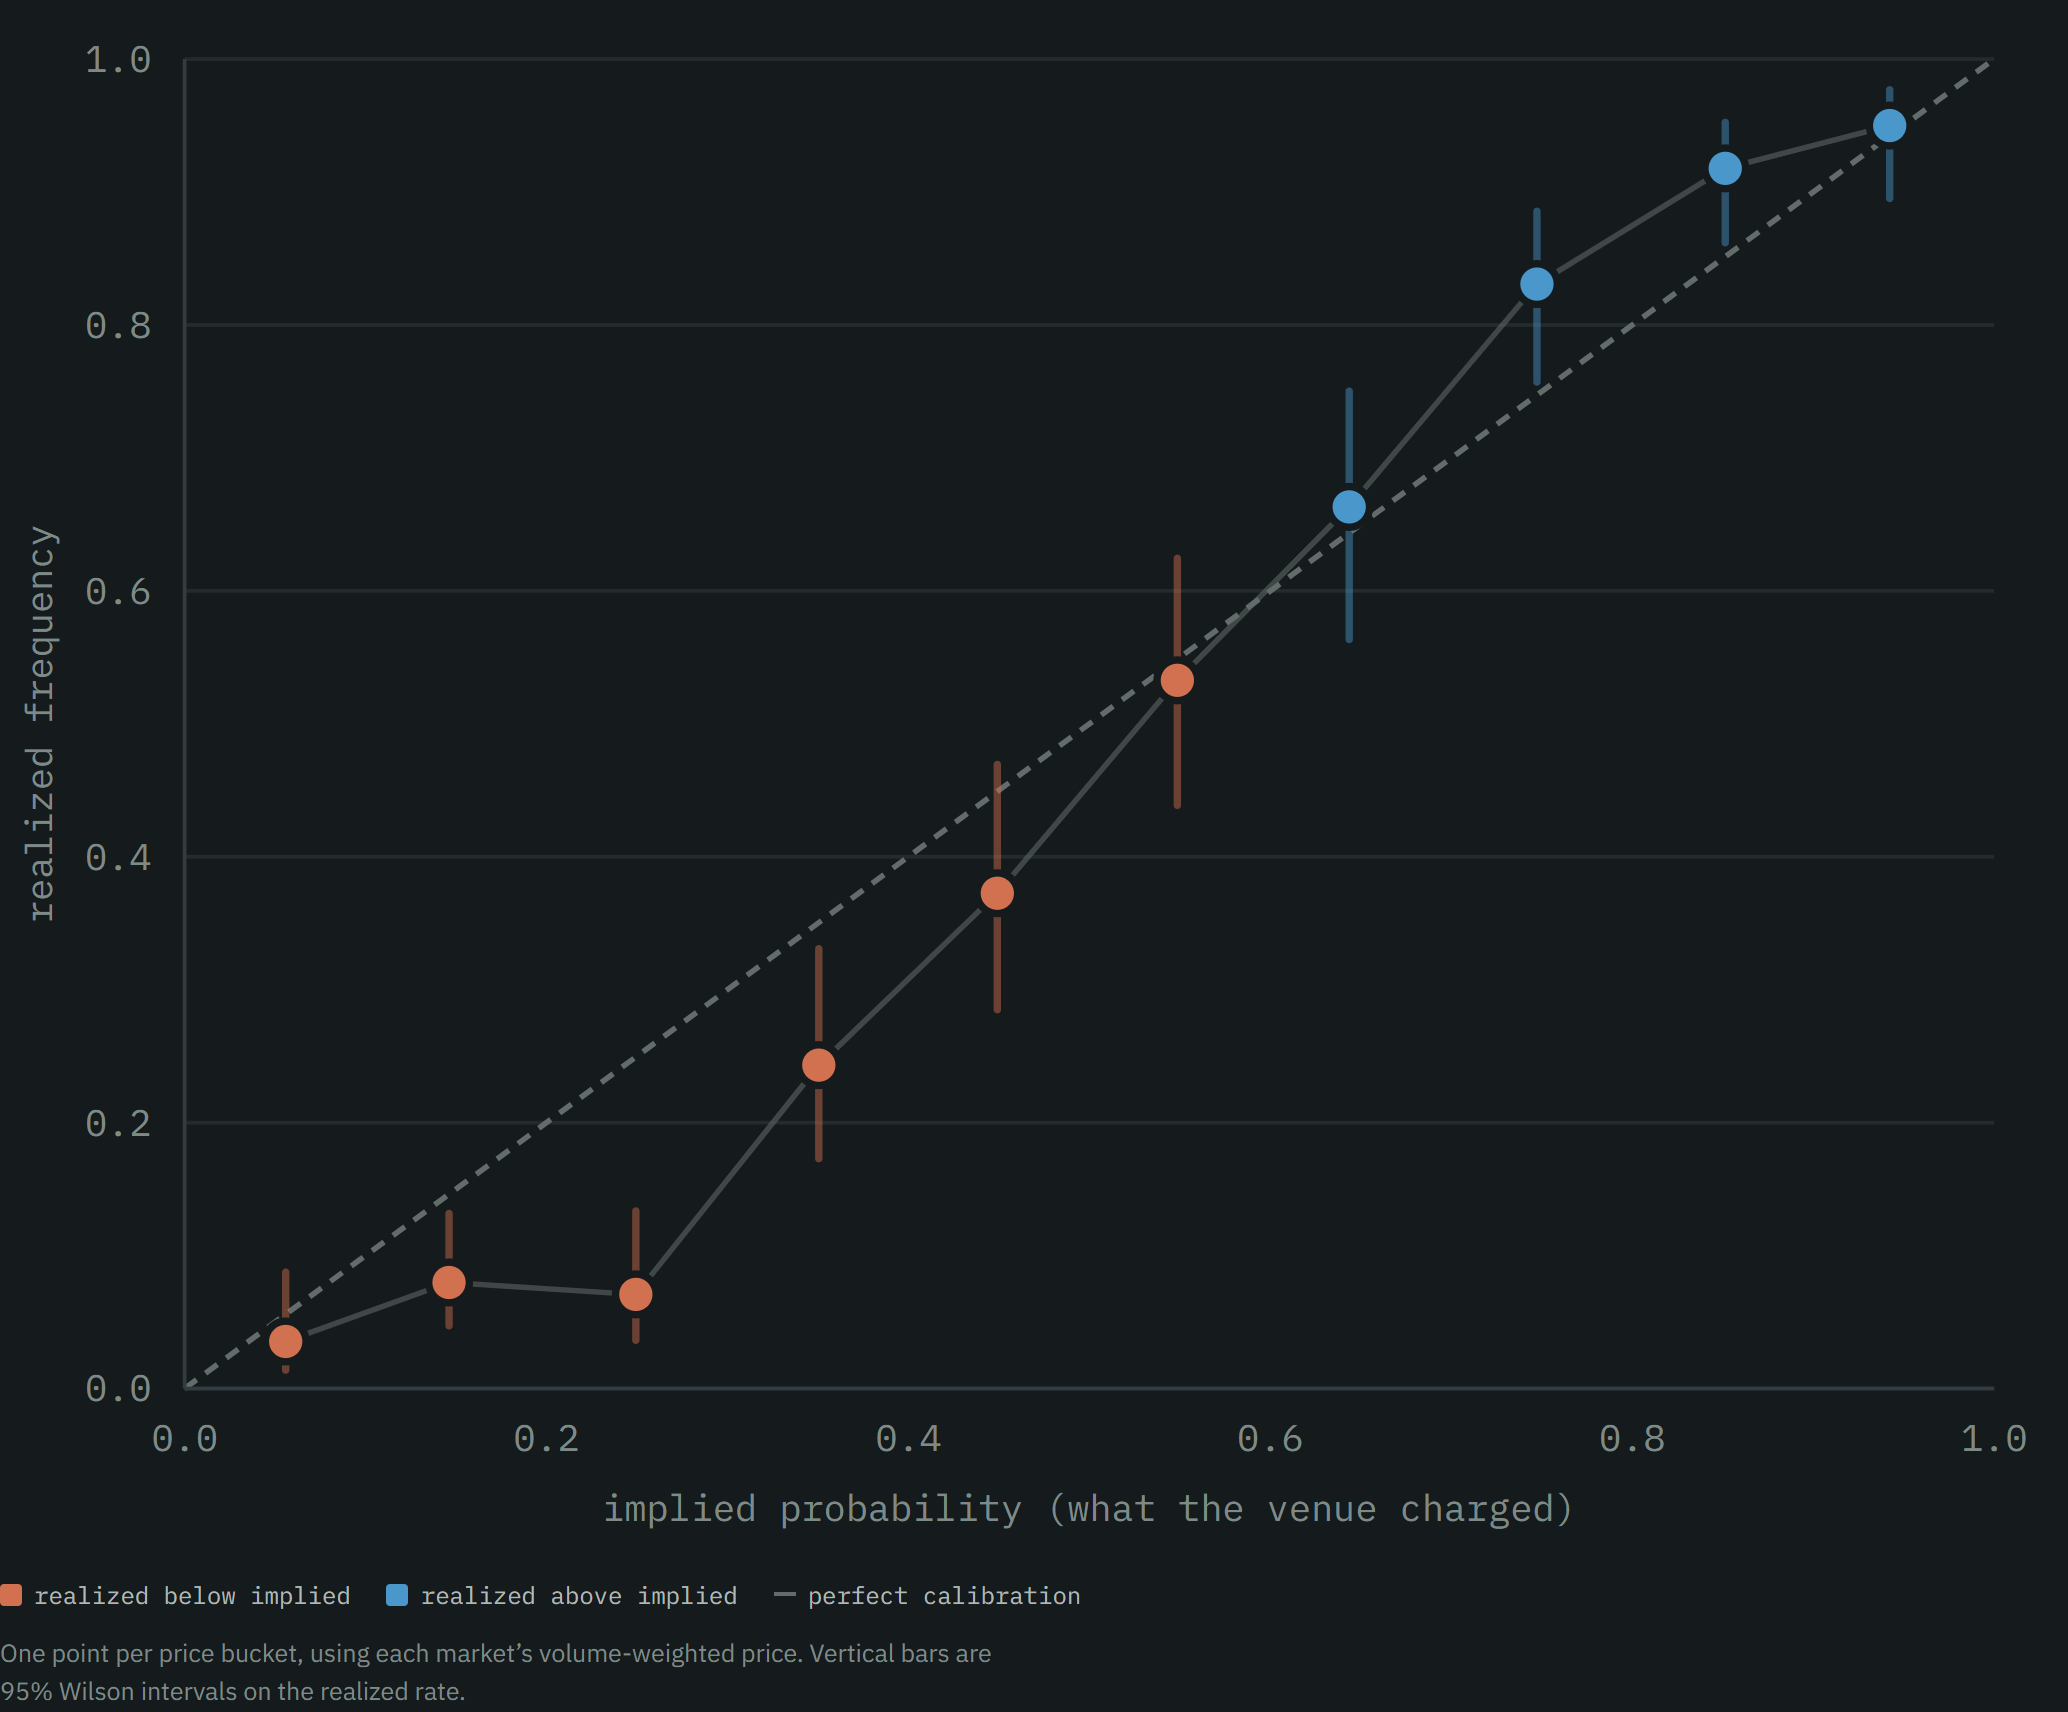
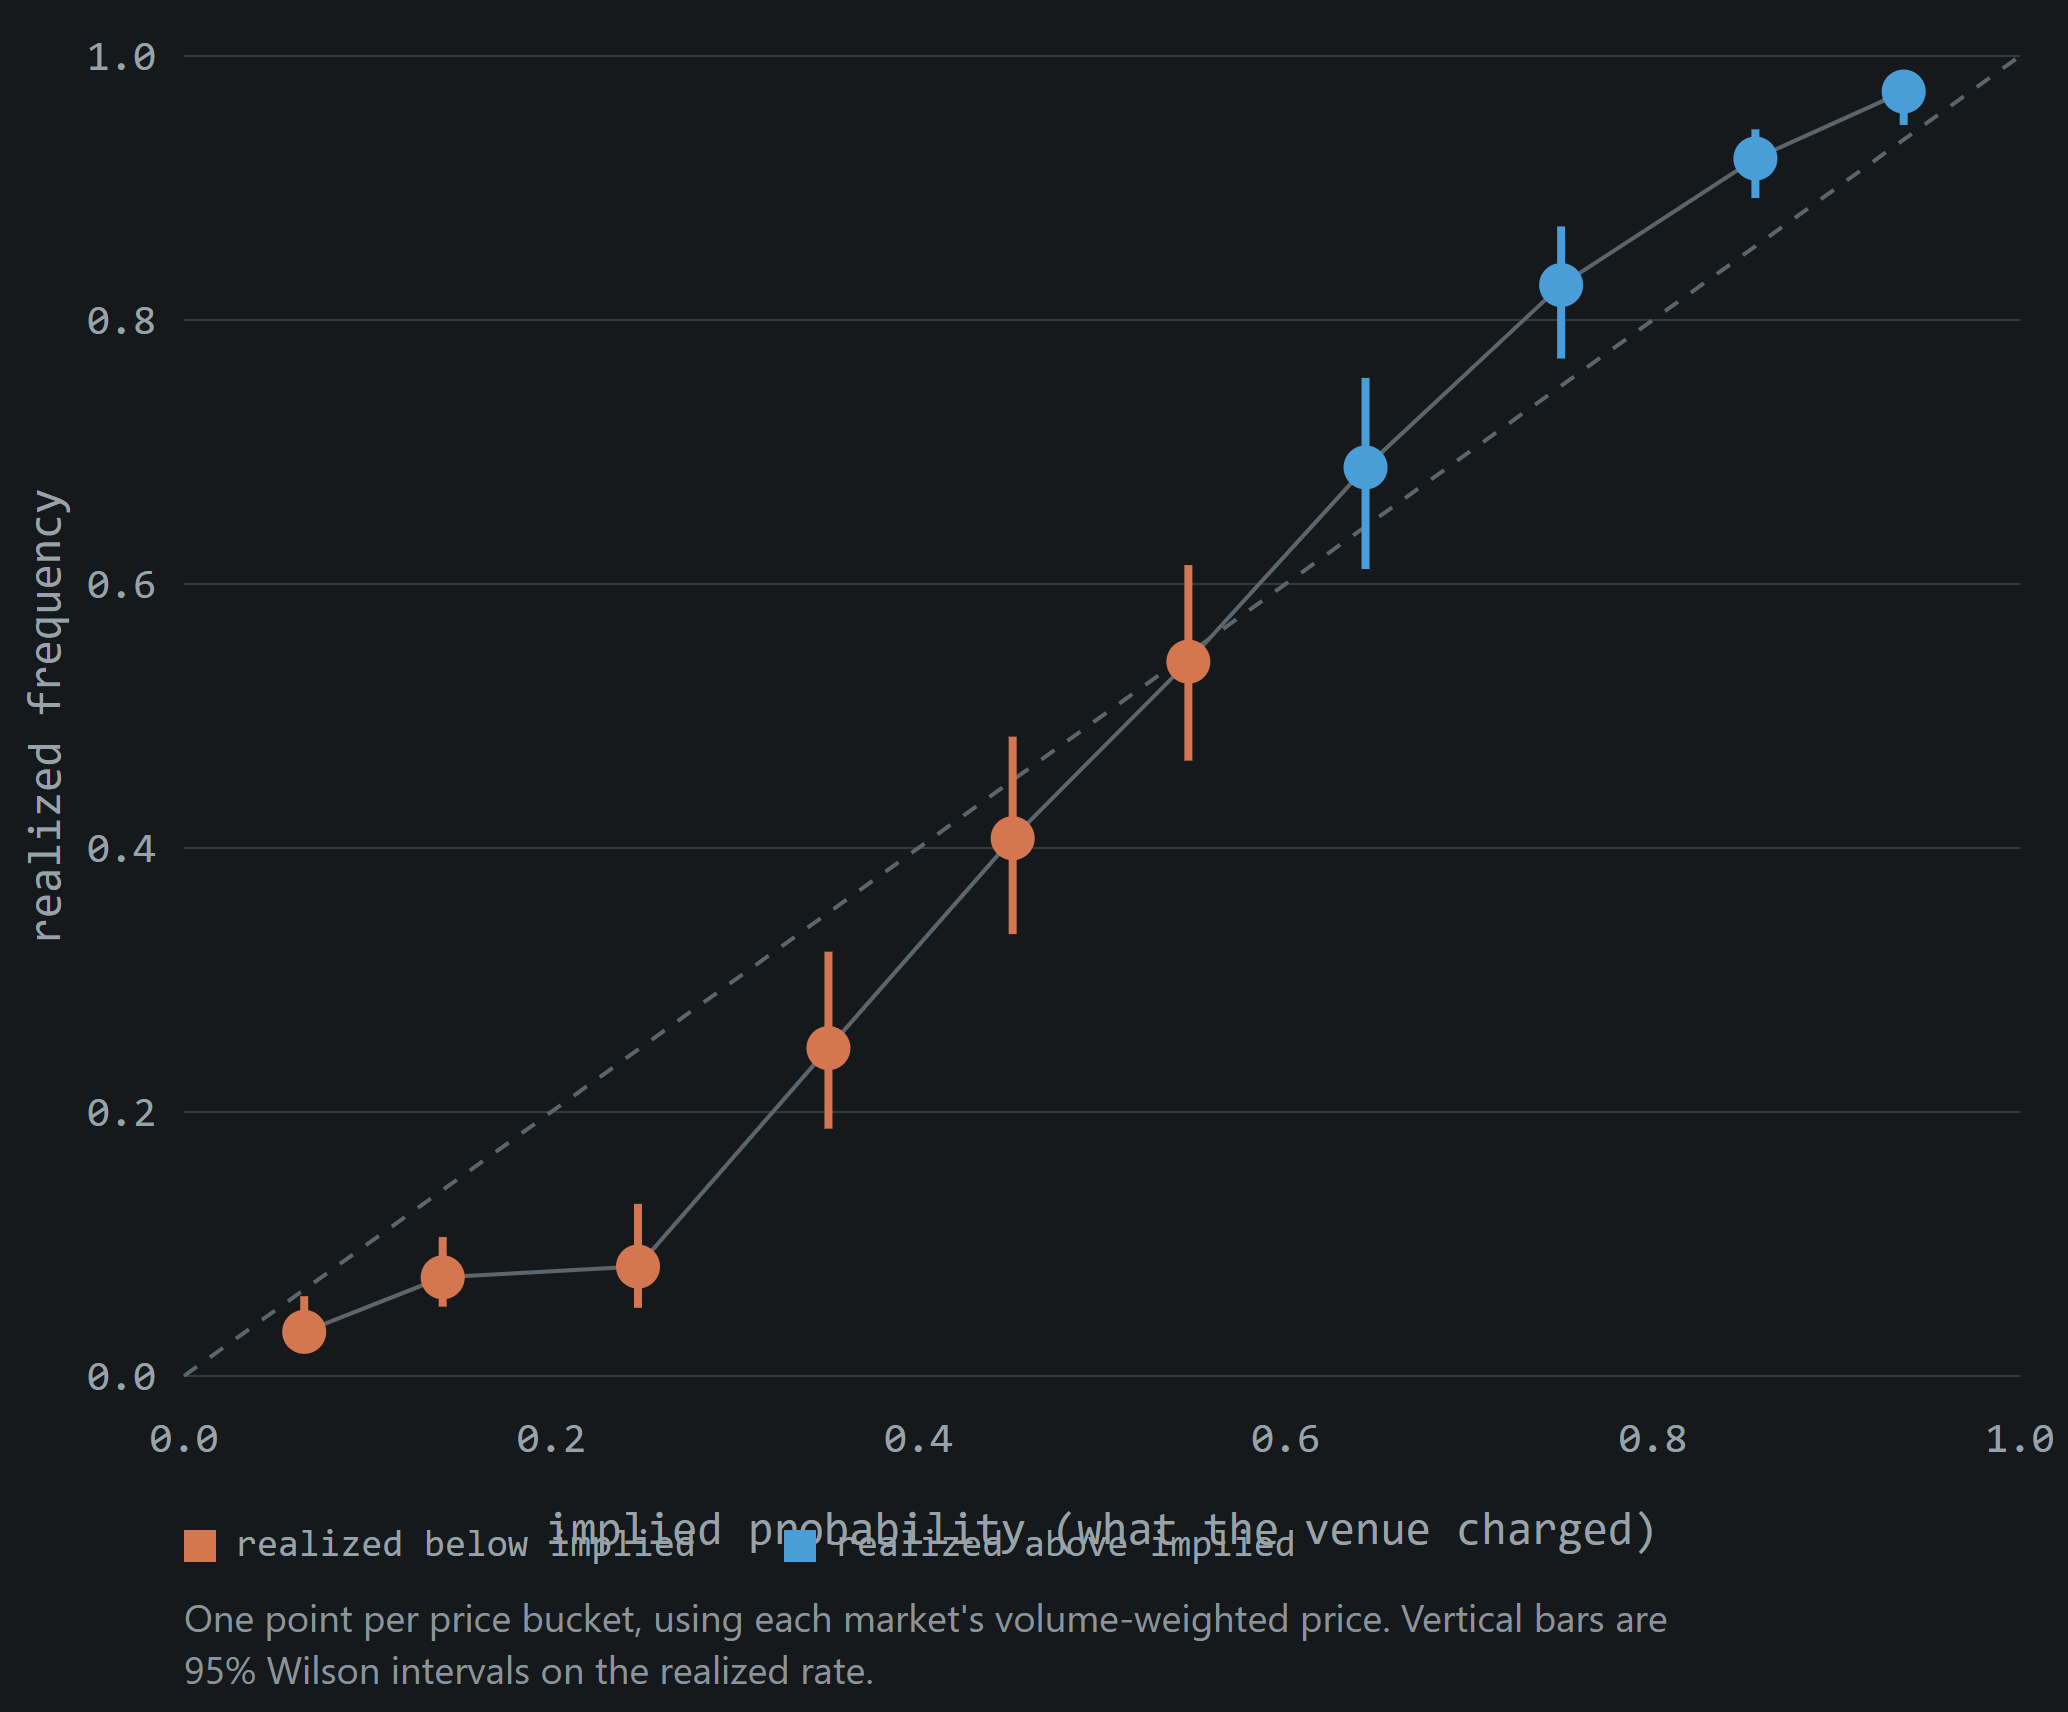
Make the three figures a command instead of a memory
The calibration curve, forest plot and weekly-error bars were produced by
hand outside the repo. Nothing rebuilt them, so when the store grew they
kept describing a snapshot that no longer existed while the tables beside
them moved. A figure nobody can regenerate is a claim nobody can check.

npm run charts reads the current store through the same analytics the API
and the agent use, writes standalone SVG, and rasterises it through headless
Chrome, because GitHub's markdown pipeline is unreliable with SVG. Both
artefacts are committed: the SVG is the source, the PNG is what the README
points at.

Regenerated against the refreshed store, which changes what the forest plot
shows: the clustered estimate used to clear zero and no longer does, so only
the naive per-fill estimator survives. Adds playwright-core as a dev
dependency, driving the installed Chrome rather than downloading a browser.

diff --git a/src/cli/charts.ts b/src/cli/charts.ts
@@ -1,0 +1,224 @@
+/**
+ * `npm run charts` - regenerate the three figures the README embeds.
+ *
+ * These used to be produced by hand outside the repo, which meant they drifted
+ * silently: the store grew, every number in the tables moved, and the pictures
+ * beside them still described an older snapshot. A figure that cannot be
+ * rebuilt from the current store is a claim nobody can check, so this makes
+ * them a command like every other number here.
+ *
+ * Each chart is emitted as standalone SVG and then rasterised through headless
+ * Chrome, because GitHub's markdown pipeline is unreliable with SVG. Both
+ * artefacts are written: the SVG is the source, the PNG is what the README
+ * points at.
+ */
+
+import { writeFileSync } from "node:fs";
+import { chromium } from "playwright-core";
+import { openDb } from "../db/schema.js";
+import { scoredFills, scoredMarkets } from "../analytics/queries.js";
+import { calibrationReport, type CalibrationBin } from "../analytics/calibration.js";
+import { edgeReport } from "../analytics/edge.js";
+
+/* The site's own data poles, held against the dark ground the figures use.
+   Orange is "realized below implied", blue is "realized above". Grey is
+   reserved for the estimate that does not clear zero - it must never read as
+   one of the two poles, because it is not a direction. */
+const C = {
+  bg: "#16191c",
+  grid: "#333b41",
+  axis: "#98a2a8",
+  dim: "#8a949a",
+  low: "#d4764f",
+  high: "#4a9ed8",
+  none: "#7f8d88",
+  rule: "#5b656b",
+};
+const MONO = "'JetBrains Mono','SF Mono',ui-monospace,Menlo,Consolas,monospace";
+const SANS = "'Inter',system-ui,-apple-system,'Segoe UI',sans-serif";
+
+const esc = (s: string) => s.replace(/&/g, "&amp;").replace(/</g, "&lt;").replace(/>/g, "&gt;");
+const cents = (x: number) => `${x >= 0 ? "+" : "−"}${Math.abs(x * 100).toFixed(2)}¢`;
+
+function caption(lines: string[], x: number, y: number): string {
+  return lines
+    .map((l, i) => `<text x="${x}" y="${y + i * 26}" font-family="${SANS}" font-size="19" fill="${C.dim}">${esc(l)}</text>`)
+    .join("");
+}
+
+function frame(w: number, h: number, body: string): string {
+  return `<svg xmlns="http://www.w3.org/2000/svg" width="${w}" height="${h}" viewBox="0 0 ${w} ${h}"><rect width="${w}" height="${h}" fill="${C.bg}"/>${body}</svg>`;
+}
+
+/* ------------------------------------------------------------- calibration */
+function calibrationSvg(bins: CalibrationBin[]): string {
+  const W = 1034, H = 856;
+  const L = 92, R = 24, T = 28, B = 168;
+  const pw = W - L - R, ph = H - T - B;
+  const X = (p: number) => L + p * pw;
+  const Y = (p: number) => T + (1 - p) * ph;
+
+  let s = "";
+  for (let i = 0; i <= 5; i++) {
+    const v = i / 5;
+    s += `<line x1="${L}" y1="${Y(v)}" x2="${L + pw}" y2="${Y(v)}" stroke="${C.grid}" stroke-width="1"/>`;
+    s += `<text x="${L - 14}" y="${Y(v) + 7}" text-anchor="end" font-family="${MONO}" font-size="21" fill="${C.axis}">${v.toFixed(1)}</text>`;
+    s += `<text x="${X(v)}" y="${T + ph + 38}" text-anchor="middle" font-family="${MONO}" font-size="21" fill="${C.axis}">${v.toFixed(1)}</text>`;
+  }
+  // The diagonal of perfect pricing.
+  s += `<line x1="${X(0)}" y1="${Y(0)}" x2="${X(1)}" y2="${Y(1)}" stroke="${C.rule}" stroke-width="2" stroke-dasharray="8 8"/>`;
+
+  const pts = bins.filter((b) => b.n > 0);
+  s += `<polyline fill="none" stroke="${C.rule}" stroke-width="2" points="${pts.map((b) => `${X(b.implied)},${Y(b.realized)}`).join(" ")}"/>`;
+  for (const b of pts) {
+    const col = b.realized < b.implied ? C.low : C.high;
+    s += `<line x1="${X(b.implied)}" y1="${Y(b.ci95[0])}" x2="${X(b.implied)}" y2="${Y(b.ci95[1])}" stroke="${col}" stroke-width="4"/>`;
+    s += `<circle cx="${X(b.implied)}" cy="${Y(b.realized)}" r="11" fill="${col}"/>`;
+  }
+
+  s += `<text x="${L + pw / 2}" y="${T + ph + 84}" text-anchor="middle" font-family="${MONO}" font-size="23" fill="${C.axis}">implied probability (what the venue charged)</text>`;
+  s += `<text transform="translate(30,${T + ph / 2}) rotate(-90)" text-anchor="middle" font-family="${MONO}" font-size="23" fill="${C.axis}">realized frequency</text>`;
+
+  const ly = H - 78;
+  s += `<rect x="${L}" y="${ly - 13}" width="16" height="16" fill="${C.low}"/><text x="${L + 26}" y="${ly}" font-family="${MONO}" font-size="19" fill="${C.axis}">realized below implied</text>`;
+  s += `<rect x="${L + 300}" y="${ly - 13}" width="16" height="16" fill="${C.high}"/><text x="${L + 326}" y="${ly}" font-family="${MONO}" font-size="19" fill="${C.axis}">realized above implied</text>`;
+  s += caption(
+    ["One point per price bucket, using each market's volume-weighted price. Vertical bars are", "95% Wilson intervals on the realized rate."],
+    L,
+    H - 40,
+  );
+  return frame(W, H, s);
+}
+
+/* ------------------------------------------------------------- forest plot */
+interface ForestRow {
+  label: string;
+  sub: string;
+  mean: number;
+  ci: [number, number];
+  clears: boolean;
+}
+
+function forestSvg(rows: ForestRow[]): string {
+  const W = 1034, H = 560;
+  const L = 300, R = 40, T = 74, B = 150;
+  const pw = W - L - R;
+  const span = Math.max(...rows.flatMap((r) => [Math.abs(r.ci[0]), Math.abs(r.ci[1])])) * 1.25 || 0.06;
+  const X = (v: number) => L + ((v + span) / (2 * span)) * pw;
+  const rowY = (i: number) => T + 46 + i * ((H - T - B) / rows.length);
+
+  let s = "";
+  for (let i = -2; i <= 2; i++) {
+    const v = (i / 2) * span;
+    s += `<line x1="${X(v)}" y1="${T}" x2="${X(v)}" y2="${H - B + 16}" stroke="${i === 0 ? C.rule : C.grid}" stroke-width="1"/>`;
+    s += `<text x="${X(v)}" y="${H - B + 52}" text-anchor="middle" font-family="${MONO}" font-size="21" fill="${C.axis}">${cents(v)}</text>`;
+  }
+  s += `<text x="${X(0)}" y="${T - 22}" text-anchor="middle" font-family="${MONO}" font-size="23" fill="${C.axis}">no edge</text>`;
+
+  rows.forEach((r, i) => {
+    const y = rowY(i);
+    const col = r.clears ? C.low : C.none;
+    s += `<line x1="${X(r.ci[0])}" y1="${y}" x2="${X(r.ci[1])}" y2="${y}" stroke="${col}" stroke-width="5"/>`;
+    for (const e of r.ci) s += `<line x1="${X(e)}" y1="${y - 15}" x2="${X(e)}" y2="${y + 15}" stroke="${col}" stroke-width="5"/>`;
+    s += `<circle cx="${X(r.mean)}" cy="${y}" r="12" fill="${col}"/>`;
+    s += `<text x="24" y="${y - 22}" font-family="${MONO}" font-size="24" font-weight="700" fill="${C.axis}">${esc(r.label)}</text>`;
+    s += `<text x="24" y="${y + 12}" font-family="${MONO}" font-size="22" fill="${C.dim}">${esc(r.sub)}</text>`;
+    s += `<text x="24" y="${y + 46}" font-family="${MONO}" font-size="22" fill="${C.dim}">${r.clears ? "clears zero" : "touches zero - inconclusive"}</text>`;
+  });
+
+  s += caption(
+    ["The point estimate barely moves. The interval is what changes, and the interval is what", "decides whether there is anything to trade."],
+    24,
+    H - 46,
+  );
+  return frame(W, H, s);
+}
+
+/* ------------------------------------------------------------ weekly bars */
+function weeklySvg(weeks: { week: string; n: number; mean: number }[]): string {
+  const W = 1034, H = 680;
+  const L = 128, R = 32, T = 40, B = 210;
+  const pw = W - L - R, ph = H - T - B;
+  const span = Math.max(...weeks.map((w) => Math.abs(w.mean))) * 1.3 || 0.05;
+  const Y = (v: number) => T + (1 - (v + span) / (2 * span)) * ph;
+  const bw = Math.min(112, (pw / Math.max(weeks.length, 1)) * 0.52);
+
+  let s = "";
+  for (let i = -2; i <= 2; i++) {
+    const v = (i / 2) * span;
+    s += `<line x1="${L}" y1="${Y(v)}" x2="${L + pw}" y2="${Y(v)}" stroke="${i === 0 ? C.rule : C.grid}" stroke-width="1"/>`;
+    s += `<text x="${L - 16}" y="${Y(v) + 8}" text-anchor="end" font-family="${MONO}" font-size="22" fill="${C.axis}">${cents(v)}</text>`;
+  }
+
+  weeks.forEach((w, i) => {
+    const cx = L + (pw / weeks.length) * (i + 0.5);
+    const col = w.mean < 0 ? C.low : C.high;
+    const y0 = Y(0), y1 = Y(w.mean);
+    s += `<rect x="${cx - bw / 2}" y="${Math.min(y0, y1)}" width="${bw}" height="${Math.max(Math.abs(y1 - y0), 4)}" rx="6" fill="${col}"/>`;
+    s += `<text x="${cx}" y="${T + ph + 52}" text-anchor="middle" font-family="${MONO}" font-size="24" fill="${C.axis}">${esc(w.week.replace(/^\d{4}-/, ""))}</text>`;
+    s += `<text x="${cx}" y="${T + ph + 90}" text-anchor="middle" font-family="${MONO}" font-size="22" fill="${C.dim}">n=${w.n}</text>`;
+  });
+
+  const ly = H - 96;
+  s += `<rect x="${24}" y="${ly - 13}" width="16" height="16" fill="${C.low}"/><text x="${50}" y="${ly}" font-family="${MONO}" font-size="19" fill="${C.axis}">UP overpriced that week</text>`;
+  s += `<rect x="${390}" y="${ly - 13}" width="16" height="16" fill="${C.high}"/><text x="${416}" y="${ly}" font-family="${MONO}" font-size="19" fill="${C.axis}">UP underpriced that week</text>`;
+  s += caption(
+    ["Whole weeks run rich, then cheap. Errors are correlated in time as well as within markets,", "so resampling individual markets still understates the uncertainty. The bootstrap", "resamples entire weeks."],
+    24,
+    H - 62,
+  );
+  return frame(W, H, s);
+}
+
+/* -------------------------------------------------------------------- main */
+const db = openDb(process.env.NAQD_DB ?? "data/naqd-mainnet.db");
+const fills = scoredFills(db);
+const markets = scoredMarkets(db);
+const cal = calibrationReport(markets, fills);
+const e = edgeReport(fills);
+db.close();
+
+const forestRows: ForestRow[] = [
+  {
+    label: "Per fill",
+    sub: `n = ${e.naive.n.toLocaleString("en-US")} fills`,
+    mean: e.naive.mean,
+    ci: e.naive.ci95,
+    clears: !(e.naive.ci95[0] <= 0 && e.naive.ci95[1] >= 0),
+  },
+  {
+    label: "Clustered by market",
+    sub: `n = ${e.clustered.n.toLocaleString("en-US")} markets`,
+    mean: e.clustered.mean,
+    ci: e.clustered.ci95,
+    clears: !(e.clustered.ci95[0] <= 0 && e.clustered.ci95[1] >= 0),
+  },
+  {
+    label: "Week-block bootstrap",
+    sub: `${e.bootstrap.blocks} weekly blocks`,
+    mean: e.bootstrap.mean,
+    ci: e.bootstrap.ci95,
+    clears: !e.bootstrap.crossesZero,
+  },
+];
+
+const FIGS: { file: string; svg: string; w: number; h: number }[] = [
+  { file: "calibration", svg: calibrationSvg(cal.byMarket), w: 1034, h: 856 },
+  { file: "forest-plot", svg: forestSvg(forestRows), w: 1034, h: 560 },
+  { file: "weekly-edge", svg: weeklySvg(e.weekly.filter((w) => w.n >= 20)), w: 1034, h: 680 },
+];
+
+const browser = await chromium.launch({ channel: "chrome", headless: true });
+const page = await browser.newPage({ viewport: { width: 1200, height: 900 }, deviceScaleFactor: 2 });
+for (const f of FIGS) {
+  writeFileSync(`docs/${f.file}.svg`, f.svg);
+  await page.setContent(
+    `<body style="margin:0;background:${C.bg}">${f.svg}</body>`,
+    { waitUntil: "load" },
+  );
+  // Give webfont fallback resolution a beat so text metrics settle.
+  await page.waitForTimeout(300);
+  await page.locator("svg").screenshot({ path: `docs/${f.file}.png` });
+  console.log(`docs/${f.file}.png  ${f.w * 2}x${f.h * 2}`);
+}
+await browser.close();
